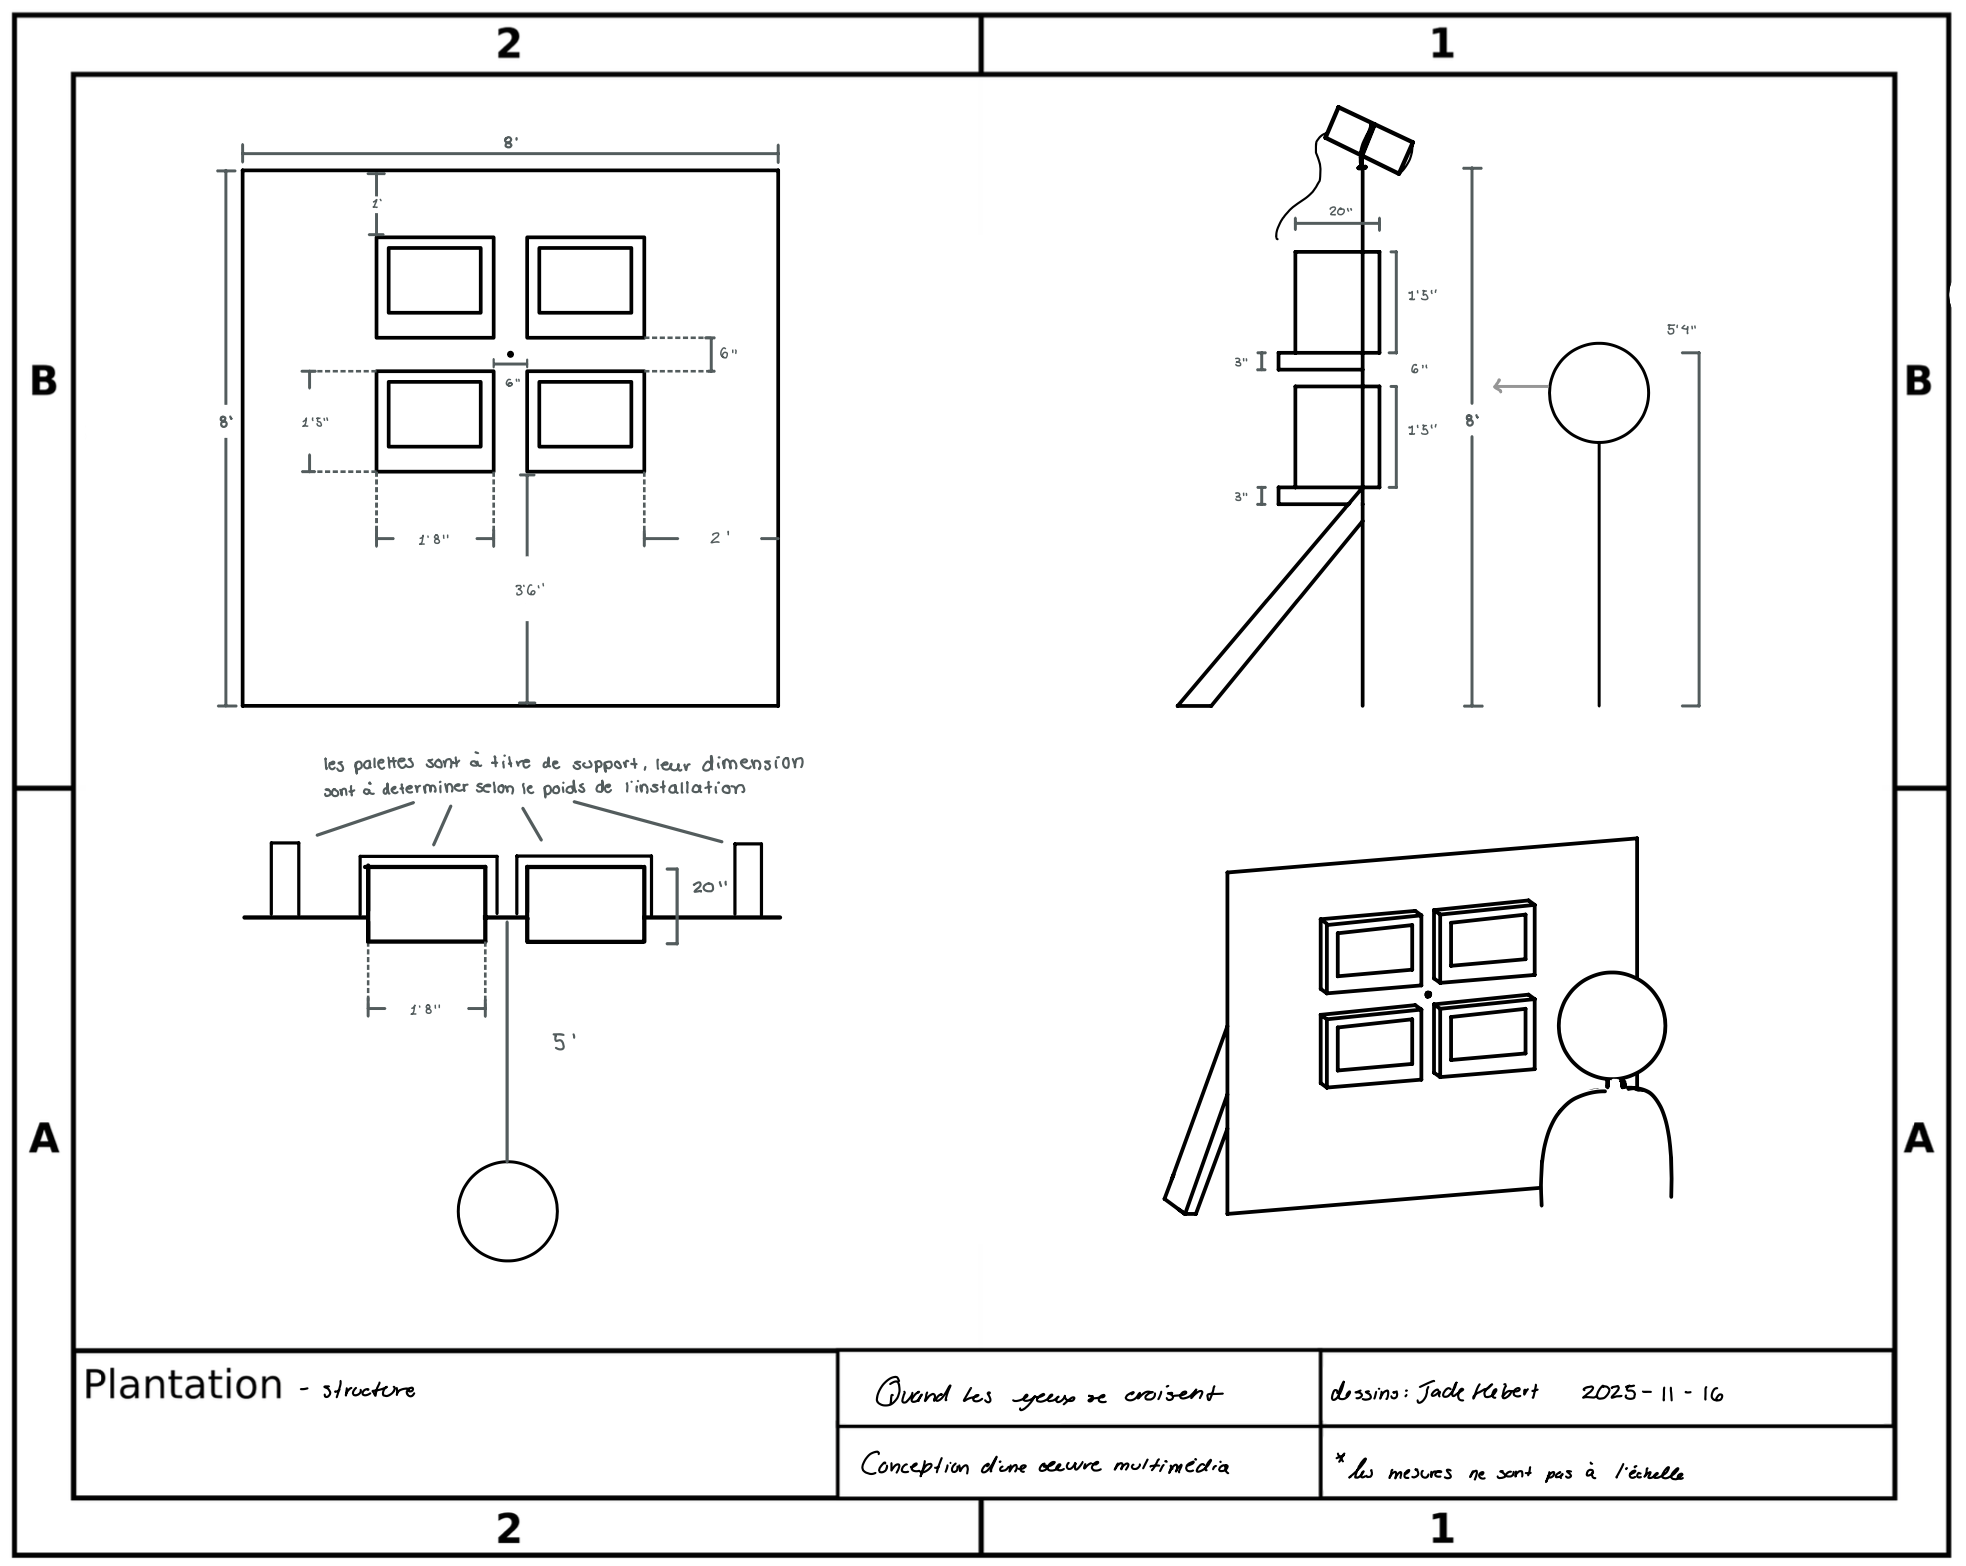
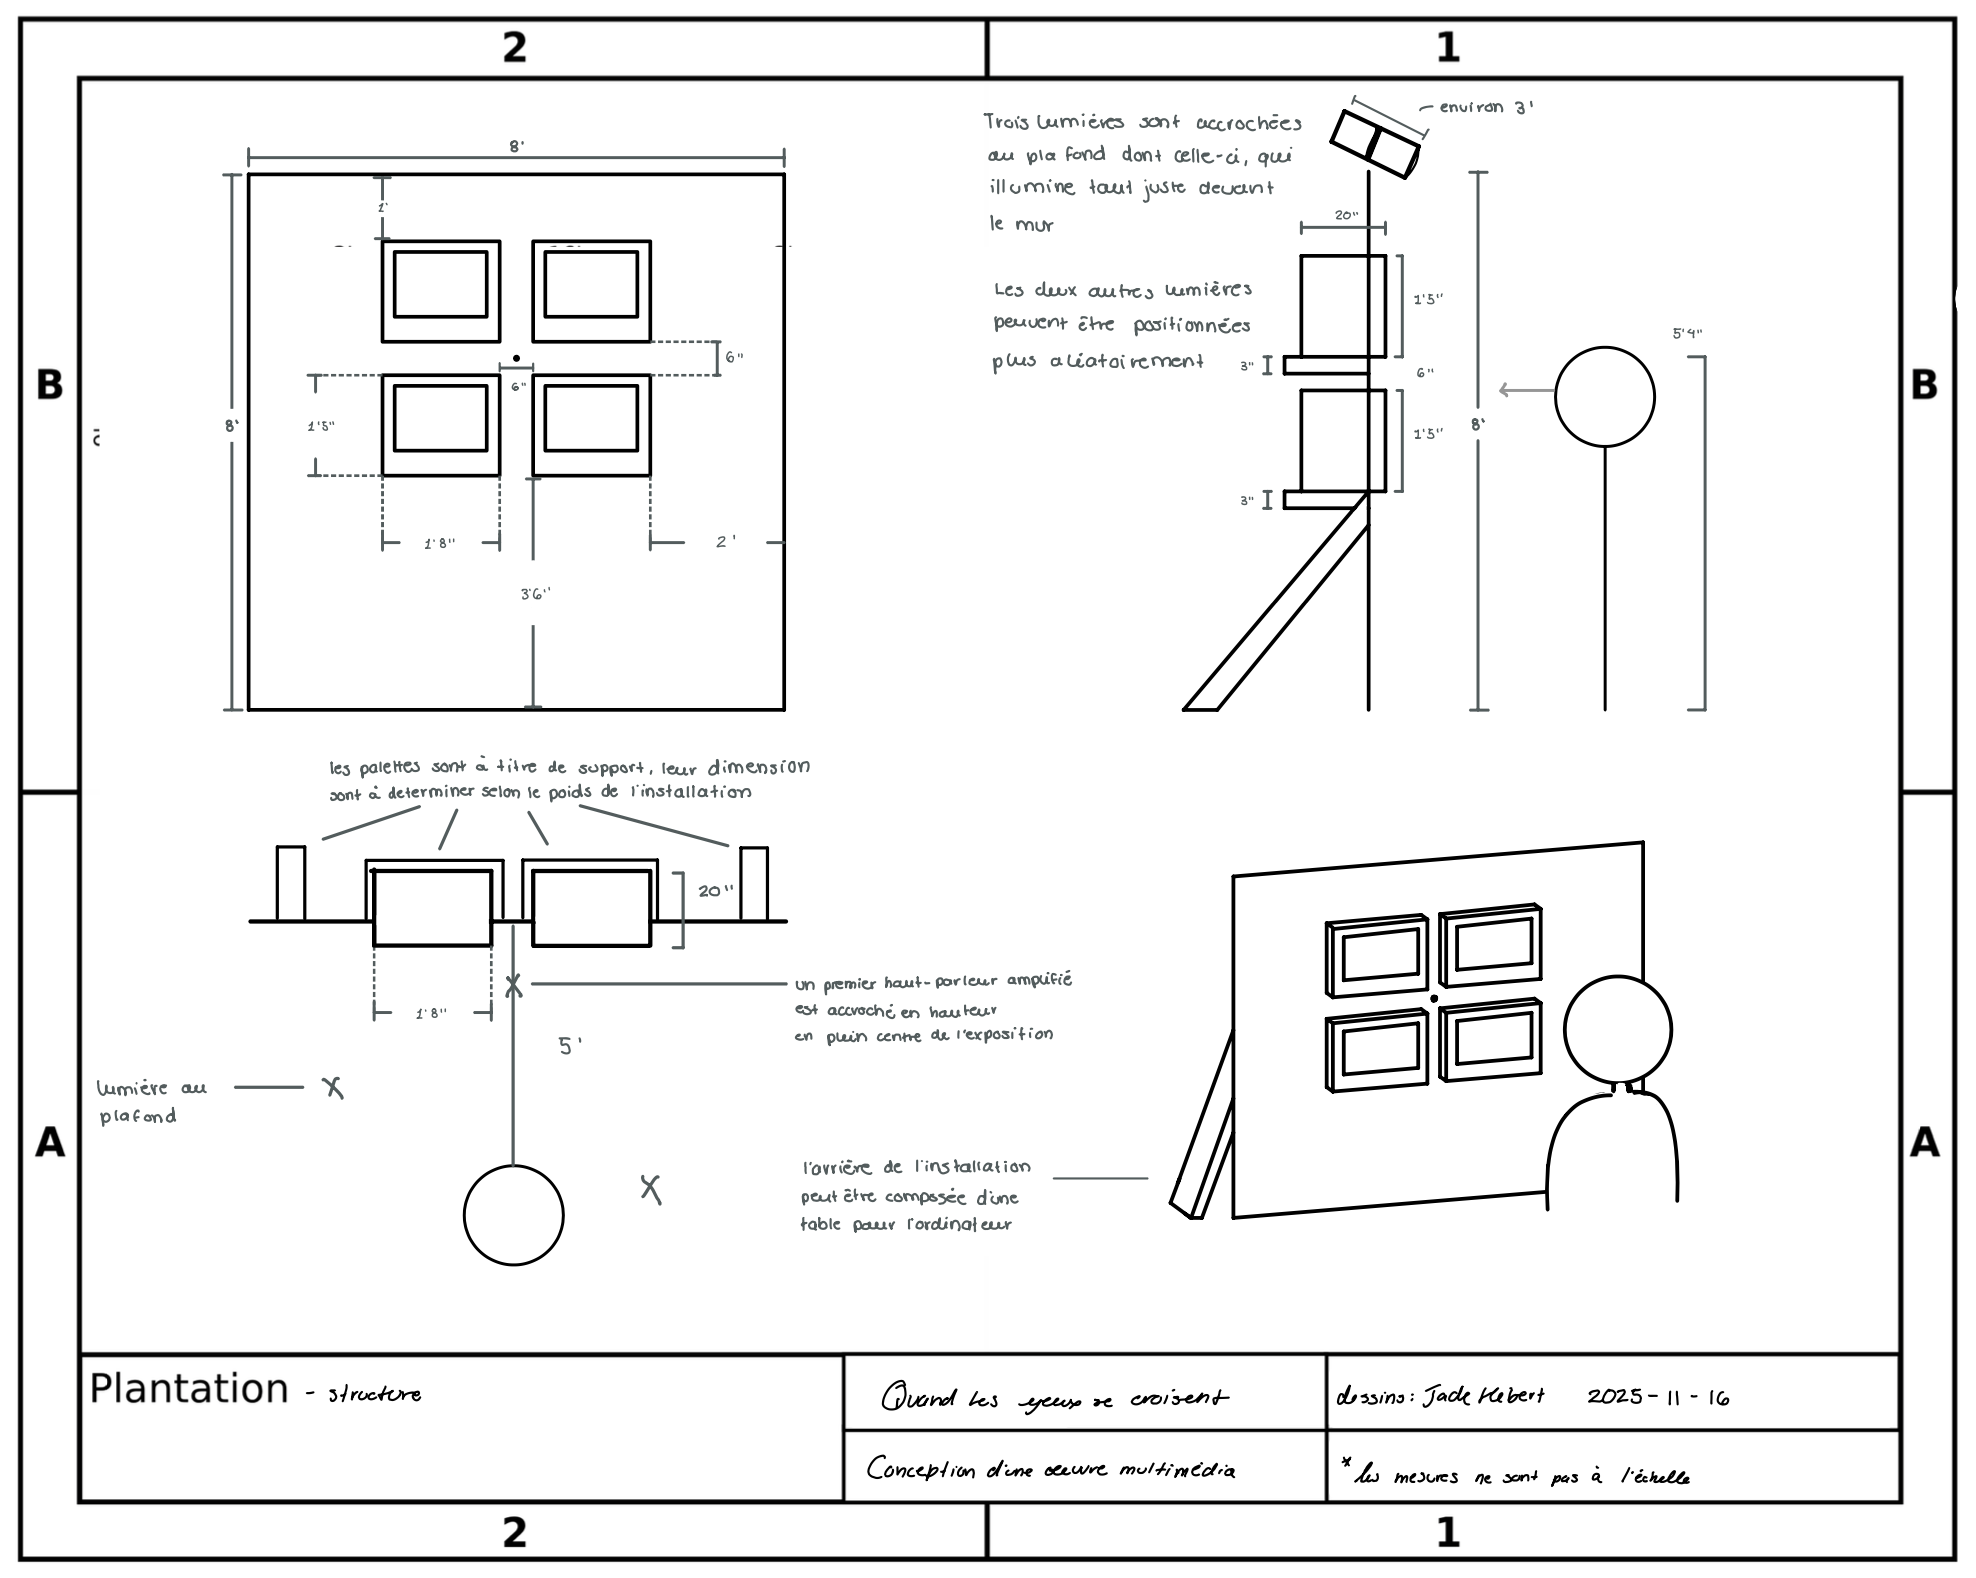
changement plans

diff --git a/maquette/README.md b/maquette/README.md
@@ -24,8 +24,8 @@
 
 ### Scène 3
 
-| Verbe action | Condition de déclenchement | Effet visuel                                                                                                                                                                                                                                 | Effet sonore                                                     | Effet interactif   |
-| ------------ | -------------------------- | -------------------------------------------------------------------------------------------------------------------------------------------------------------------------------------------------------------------------------------------- | ---------------------------------------------------------------- | ------------------ |
+| Verbe action | Condition de déclenchement | Effet visuel                                                                                                                                                                                                                                 | Effet sonore                                            | Effet interactif   |
+| ------------ | -------------------------- | -------------------------------------------------------------------------------------------------------------------------------------------------------------------------------------------------------------------------------------------- | ------------------------------------------------------- | ------------------ |
 | Quitter      | Inactivité totale          | Les télévisons alternent entre des yeux d'animaux et les yeux d'humains déjà enregistrés et les lumières redeviennent à leur état initial, c'est-à-dire des couleurs distinctes qui ont une légère animation s'apparentant à une respiration | La même musique de fond joue avec un son de respiration | Passe à la scène 1 |
 
 ## Équipements
@@ -64,7 +64,8 @@
 ![](plan_fils.png)
 
 ## Plan d'implantation
-![](studios.svg)
+
+![](plan_studio.png)
 
 Plans d'implantation 2D
 
